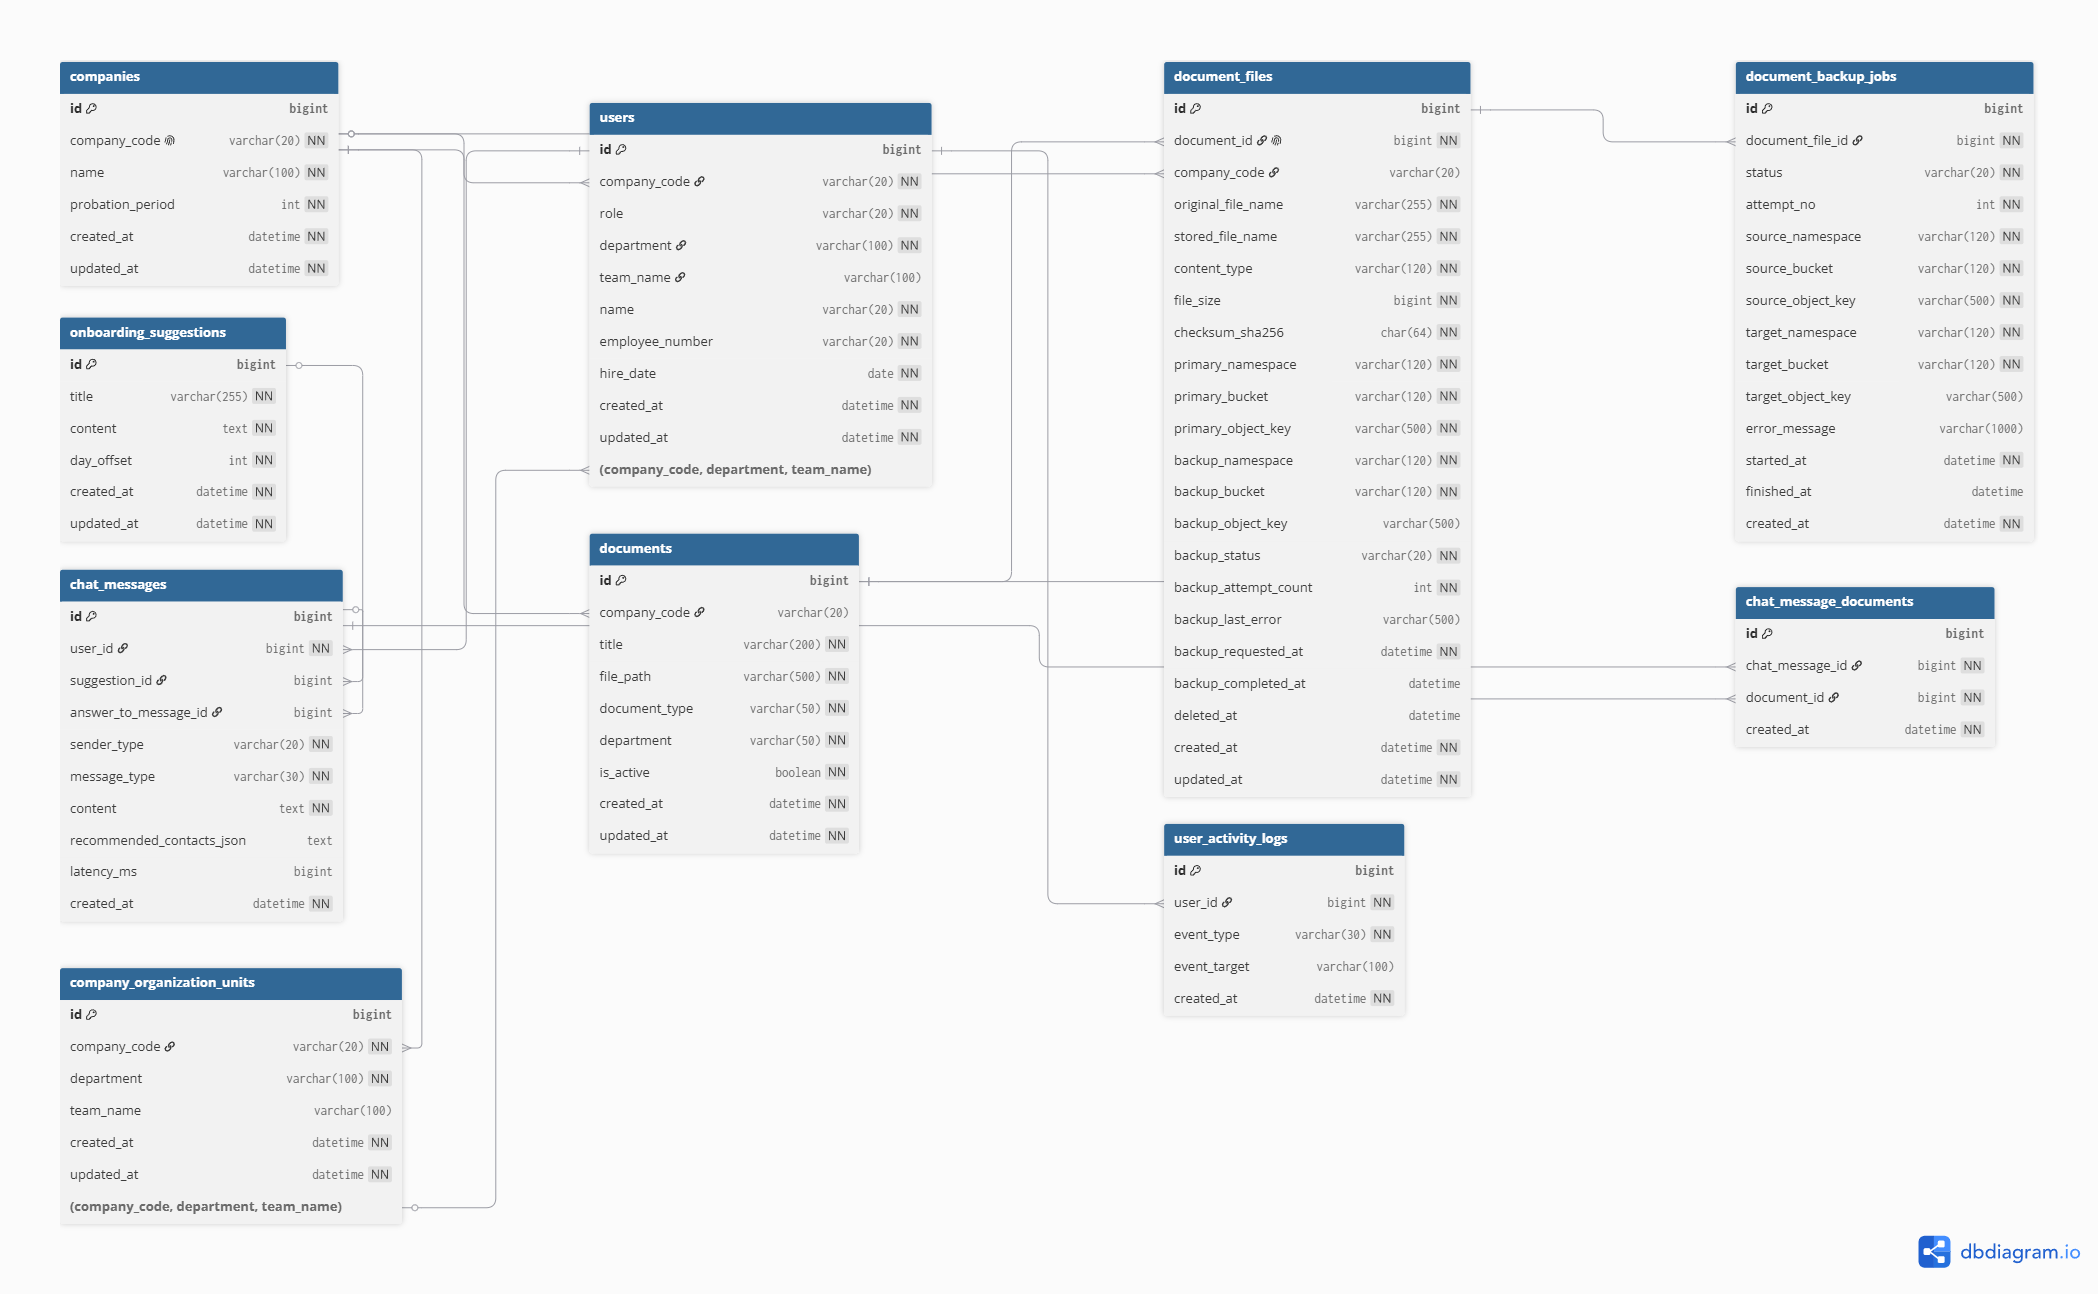
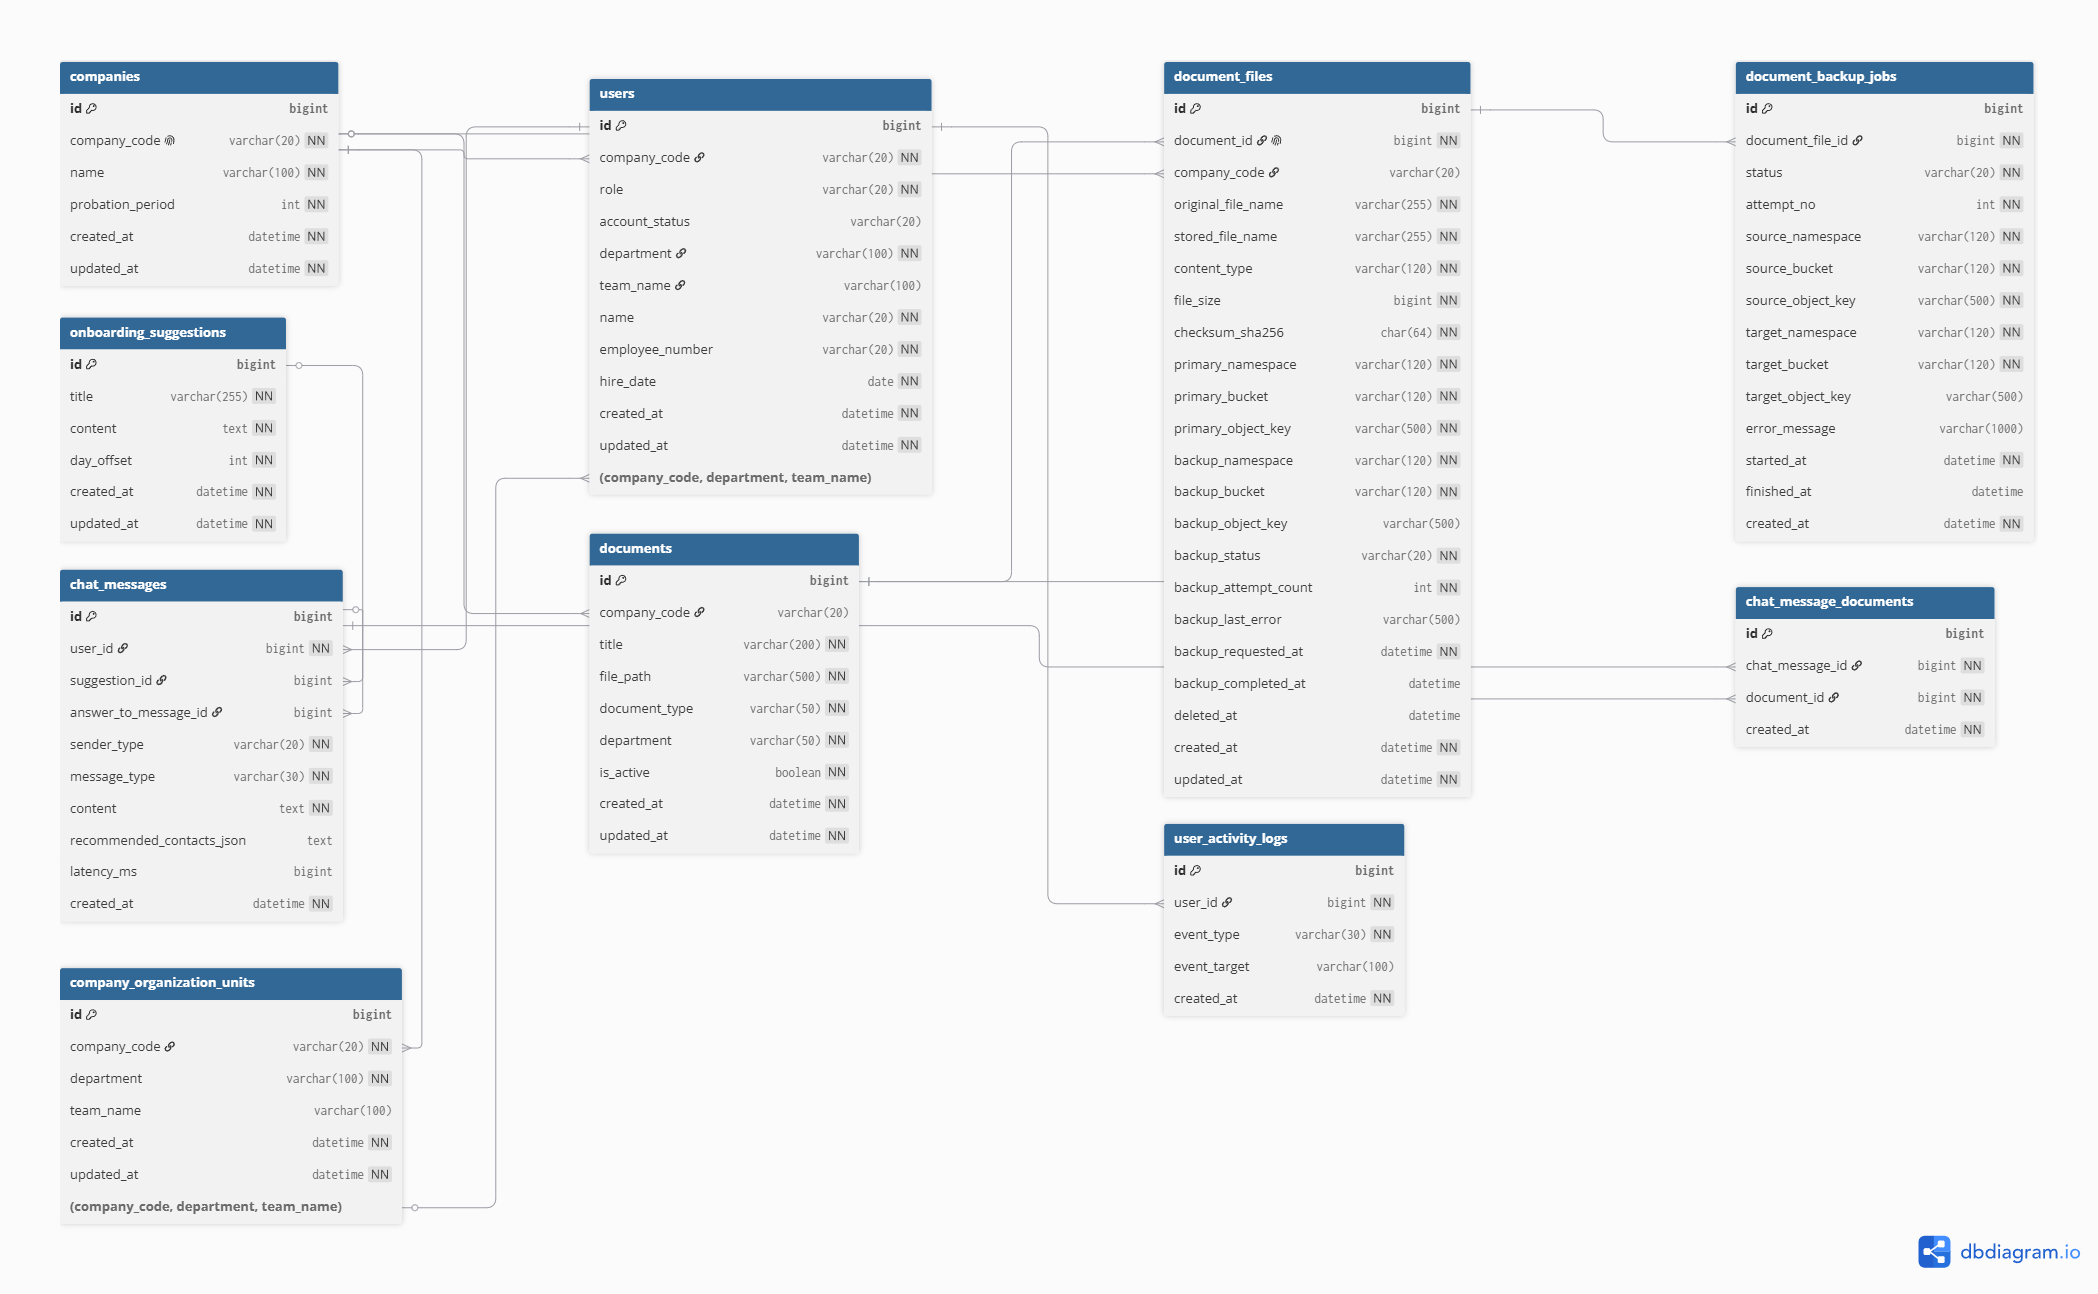
docs: ERD 수정

Changed region(s): [[0.2169, 0.0618, 0.4647, 0.3709]]

diff --git a/docs/data/ERD.md b/docs/data/ERD.md
@@ -1,7 +1,7 @@
 # ERD
 
-**현재 버전: v2.3**
-**최종 수정일: 2026-05-28**
+**현재 버전: v2.4**
+**최종 수정일: 2026-06-04**
 
 ## 개요
 **ERD(Entity Relationship Diagram)** 를 텍스트로 정리한 문서이다.
@@ -36,6 +36,7 @@
 - `id` : PK, bigint
 - `company_code` : FK → `companies.company_code`
 - `role` : 사용자 역할, varchar, 기본값 `USER` (`USER`, `ADMIN`)
+- `account_status` : 계정 상태, varchar, nullable (`ACTIVE`, `READ_ONLY`, `INACTIVE`)
 - `department` : 부서, varchar(100)
 - `team_name` : 팀명, varchar(100), nullable
 - `name` : 사용자 이름, varchar
@@ -341,6 +342,7 @@
 - v2.1 (2026-05-20): 회사별 부서/팀 기준정보 관리를 위한 `company_organization_units` 테이블 추가, `users.team_name` nullable 반영, `users(company_code, department, team_name)`와 `company_organization_units(company_code, department, team_name)` 간 복합 외래키 관계 반영
 - v2.2 (2026-05-27): `chat_messages.answer_to_message_id`, `chat_messages.latency_ms` 컬럼 추가, 질문-답변 직접 연결을 위한 자기참조 외래키 및 답변 생성 소요 시간 저장 구조 반영
 - v2.3 (2026-05-28): `companies` 테이블에 `probation_period` 컬럼 추가
+- v2.4 (2026-06-04): `users.account_status` 컬럼 추가, nullable, `ACTIVE`/`READ_ONLY`/`INACTIVE` 상태값 반영
 
 ---
 